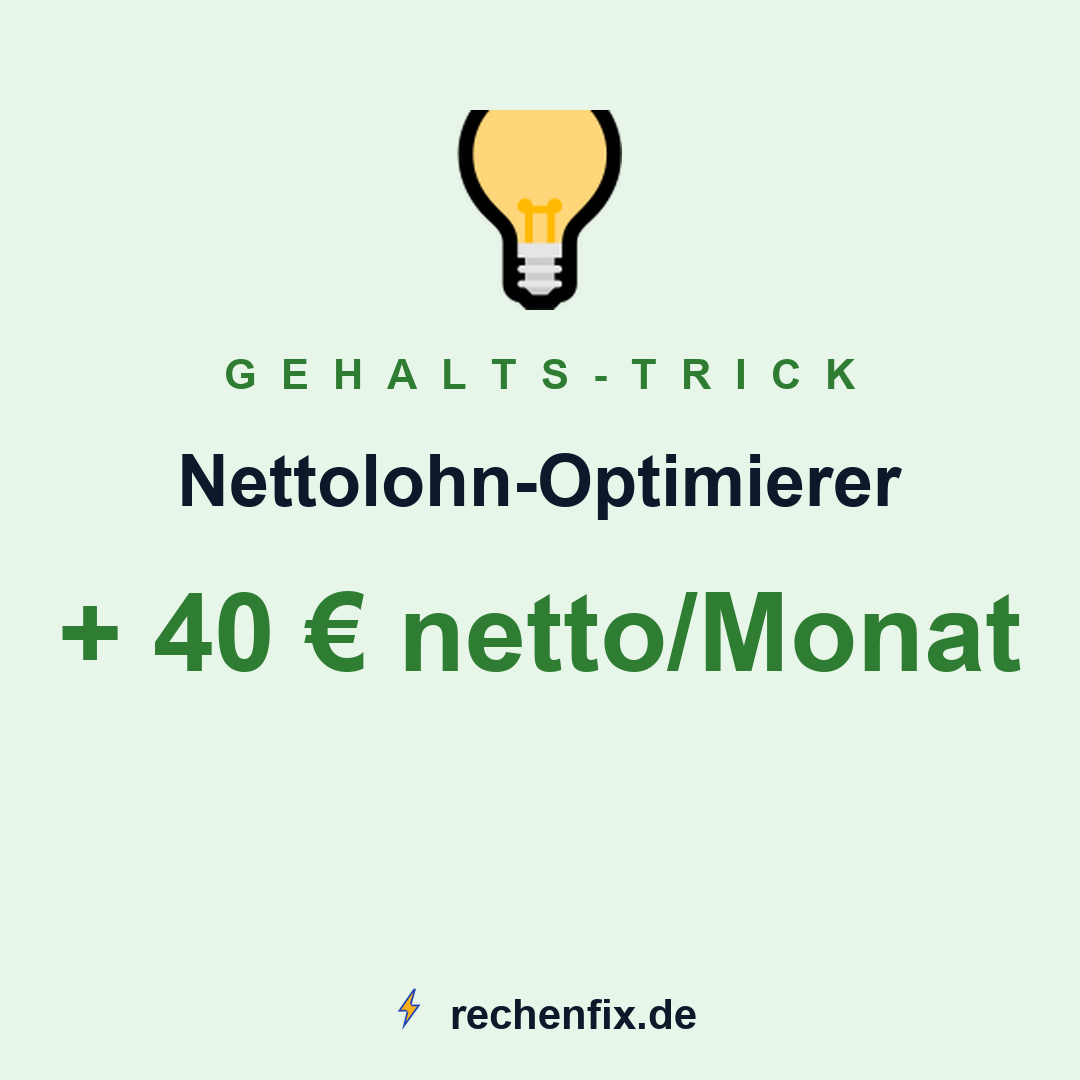
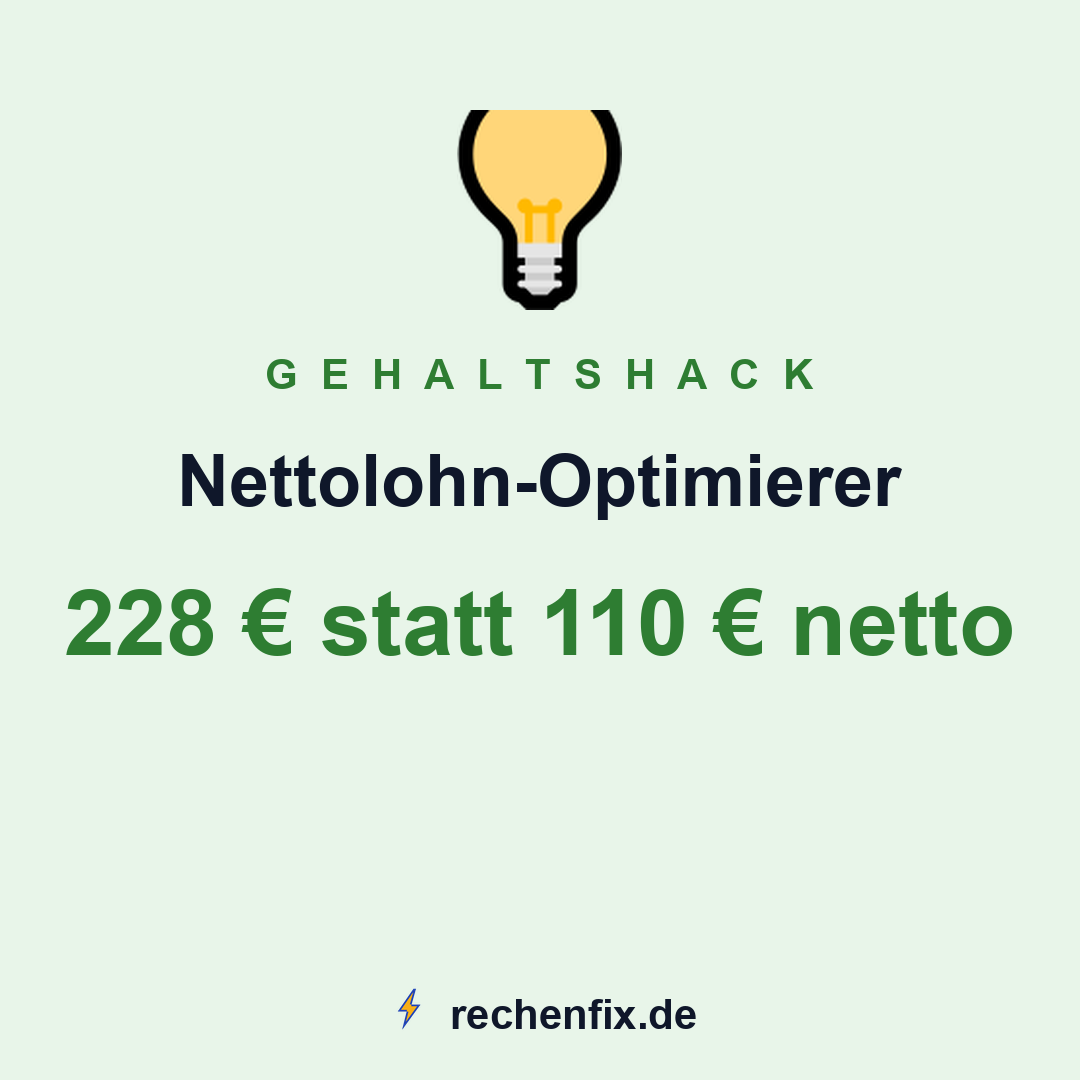
Welle 170: Nettolohn-Optimierer — Pauschalsteuer bei Essensmarken und Internet, bAV-Grenzen 2026, Social-Kachel

Changed region(s): [[0.0611, 0.5194, 0.9472, 0.6417], [0.2139, 0.3056, 0.7944, 0.3667], [0.4583, 0.9167, 0.5806, 0.9472]]

diff --git a/lib/rechner-config/finanzen.ts b/lib/rechner-config/finanzen.ts
@@ -3857,7 +3857,7 @@ export const finanzenRechner: RechnerConfig[] = [
   },
   {
     slug: 'gehaltserhoehung-rechner',
-    letzteAktualisierung: '2026-06-20',
+    letzteAktualisierung: '2026-10-19',
     titel: 'Gehaltserhöhung-Rechner',
     beschreibung: 'Gehaltserhöhung berechnen: Wie viel Netto bleibt von Ihrer Brutto-Erhöhung — mit Steuer- und Abgabeneffekt.',
     kategorie: 'Finanzen',
@@ -3886,7 +3886,7 @@ export const finanzenRechner: RechnerConfig[] = [
       },
       {
         frage: 'Welche steuerfreien Alternativen gibt es zur Gehaltserhöhung?',
-        antwort: 'Viele. Die wichtigsten steuerfreien Benefits: Jobticket/Deutschlandticket (63 €/Monat seit 2026), Essenszuschuss (bis 7,67 €/Arbeitstag), Kindergarten-Zuschuss (unbegrenzt für nicht-schulpflichtige Kinder), betriebliche Altersvorsorge (bis 302 €/Monat), Gesundheitsförderung (600 €/Jahr), Handy-/Laptop-Zuschuss, Sachbezüge bis 50 €/Monat. Weil keine Abgaben anfallen, entspricht z.B. ein Jobticket von 63 € einer Brutto-Erhöhung von rund 100–120 €.',
+        antwort: 'Viele. Die wichtigsten steuerfreien oder vom Arbeitgeber pauschal versteuerten Benefits: Jobticket/Deutschlandticket (63 €/Monat seit 2026), Essensmarken (bis 7,67 €/Arbeitstag, der Sachbezugswert von 4,57 € wird pauschal versteuert), Kindergarten-Zuschuss (unbegrenzt für nicht-schulpflichtige Kinder), betriebliche Altersvorsorge (2026 steuerfrei bis 676 €/Monat, sozialabgabenfrei bis 338 €), Gesundheitsförderung (600 €/Jahr), Handy-/Laptop-Zuschuss, Sachbezüge bis 50 €/Monat. Weil keine Abgaben anfallen, entspricht z.B. ein Jobticket von 63 € einer Brutto-Erhöhung von rund 100–120 €.',
       },
       {
         frage: 'Was ist die kalte Progression?',
@@ -5220,7 +5220,7 @@ export const finanzenRechner: RechnerConfig[] = [
     metaDescription: 'Nettolohn optimieren: Gehaltserhöhung vs. Sachbezüge wie Jobticket, Essenszuschuss oder BAV kostenlos vergleichen — mit KI-Erklärung.',
     keywords: ['nettolohn optimieren', 'sachbezüge', 'steuerfreie gehaltsextras', 'gehaltserhöhung vs sachbezug', 'jobticket steuerfrei', 'essenszuschuss', 'betriebliche altersvorsorge', '50 euro sachbezug', 'nettolohn maximieren'],
     icon: '💡',
-    beispiel: 'Beispiel: 200 € AG-Budget → Brutto-Erhöhung ≈ 109 € netto (StKl I). Als Essenszuschuss (115,05 € steuerfrei) ≈ 115,05 € netto — rund 6 € mehr pro Monat.',
+    beispiel: 'Beispiel: 200 € Budget, 3.500 € brutto, StKl I → Brutto-Erhöhung 109,75 € netto bei 242,30 € Arbeitgeberkosten. Essensmarken (15 × 7,67 €, vom Arbeitgeber pauschal versteuert) bringen 115,05 € netto bei 133,13 € Kosten.',
     // W19-Goldstandard: nettolohn-optimierer auf volle Tiefe (~1.560 W, 15 Bausteine).
     // Leitformat „Benefit-Optionsmatrix" — 3 tabelle dominant (Bausteine-Übersicht ·
     // 200-€-Budget-Vergleich AN-Netto/AG-Kosten · Brutto→Netto-Quote), grenzt sich von
@@ -5228,14 +5228,15 @@ export const finanzenRechner: RechnerConfig[] = [
     // Werte aus berechneBruttoNetto reproduziert (Resolver-Check 25.06.2026, nach W147 neu gemessen, 3.500 €, StKl I):
     // +200 € brutto → +109,75 € netto (Quote ~55 %); AG-Kosten 200 € + 21,15 % AG-SV = 242,30 € (W166, berechneArbeitgeberSvMonat).
     // Bausteine 2026: Sachbezug 50 € (§ 8 Abs. 2 EStG, FREIGRENZE), Jobticket 63 € (§ 3 Nr. 15),
-    // Essenszuschuss 115,05 € (7,67 €/Tag × 15, 16. SvEV — GEFIXT f013478), Internet 50 €
-    // (§ 40 Abs. 2, 25 % pauschal AG), BAV 302 € (§ 3 Nr. 63, mindert spätere Rente).
+    // Essensmarken 115,05 € (7,67 €/Tag × 15, SvEV 2026; 4,57 €/Tag pauschal 25 % durch AG → AG-Kosten
+    // 133,13 €), Internet 50 € (§ 40 Abs. 2, 25 % pauschal AG → 63,18 €), BAV steuerfrei 676 € /
+    // SV-frei 338 € (§ 3 Nr. 63 EStG, § 1 Abs. 1 Nr. 9 SvEV; W170, vorher 302 € = Wert 2024).
     // erklaerung bleibt Fallback.
     contentBloecke: [
       {
         typ: 'text',
         titel: 'Warum steuerfreie Bausteine die Gehaltserhöhung schlagen',
-        html: `<p>Eine Brutto-Gehaltserhöhung fühlt sich gut an — bis die Abrechnung kommt. Wer in Steuerklasse I rund 3.500 € verdient, hat eine <strong>Grenzbelastung von etwa 45 %</strong> aus Lohnsteuer, Soli und Sozialabgaben. Von 200 € Brutto-Erhöhung bleiben so nur rund <strong>109 € netto</strong> übrig; der Rest geht an Finanzamt und Sozialkassen. Zusätzlich zahlt der Arbeitgeber gut 21 % Arbeitgeber-Sozialabgaben obendrauf — das Budget wird doppelt belastet.</p><p>Genau hier setzen <strong>steuerfreie Sachbezüge</strong> an. Zahlt der Arbeitgeber statt Brutto einen steuerfreien Baustein, kommt der Betrag fast ungeschmälert bei Ihnen an — und der Arbeitgeber spart die Sozialabgaben gleich mit. Ein Deutschlandticket-Zuschuss von 63 € bringt also 63 € netto, nicht etwa die Hälfte.</p><p>Dieser Rechner vergleicht sechs gängige Bausteine parallel und zeigt für Ihr Budget, welcher netto am meisten bringt. Die exakte Abgabenlast Ihres Gehalts liefert der <a href="/finanzen/brutto-netto-rechner">Brutto-Netto-Rechner</a>.</p>`,
+        html: `<p>Eine Brutto-Gehaltserhöhung fühlt sich gut an — bis die Abrechnung kommt. Wer in Steuerklasse I rund 3.500 € verdient, hat eine <strong>Grenzbelastung von etwa 45 %</strong> aus Lohnsteuer, Soli und Sozialabgaben. Von 200 € Brutto-Erhöhung bleiben so nur rund <strong>109 € netto</strong> übrig; der Rest geht an Finanzamt und Sozialkassen. Zusätzlich zahlt der Arbeitgeber gut 21 % Arbeitgeber-Sozialabgaben obendrauf — das Budget wird doppelt belastet.</p><p>Genau hier setzen <strong>steuerfreie Sachbezüge</strong> an. Zahlt der Arbeitgeber statt Brutto einen steuerfreien oder von ihm pauschal versteuerten Baustein, kommt der Betrag ungeschmälert bei Ihnen an — und der Arbeitgeber spart die Sozialabgaben gleich mit. Ein Deutschlandticket-Zuschuss von 63 € bringt also 63 € netto, nicht etwa die Hälfte.</p><p>Dieser Rechner vergleicht sechs gängige Bausteine parallel und zeigt für Ihr Budget, welcher netto am meisten bringt. Die exakte Abgabenlast Ihres Gehalts liefert der <a href="/finanzen/brutto-netto-rechner">Brutto-Netto-Rechner</a>.</p>`,
       },
       {
         typ: 'tabelle',
@@ -5243,12 +5244,12 @@ export const finanzenRechner: RechnerConfig[] = [
         kopf: ['Baustein', 'max. pro Monat', 'Rechtsgrundlage', 'Besonderheit'],
         zeilen: [
           ['Sachbezug (Gutschein/Karte)', '50 €', '§ 8 Abs. 2 EStG', 'Freigrenze — bei 50,01 € voll steuerpflichtig'],
-          ['Jobticket / Deutschlandticket', '63 €', '§ 3 Nr. 15 EStG', 'voller Ticketpreis steuerfrei (Stand 2026)'],
-          ['Essenszuschuss', '115,05 €', '16. SvEV / R 8.1 LStR', '7,67 €/Tag × 15 Tage (4,57 € + 3,10 €)'],
+          ['Jobticket / Deutschlandticket', '63 €', '§ 3 Nr. 15 EStG', 'voller Ticketpreis steuerfrei (Stand 2026); mindert die Entfernungspauschale'],
+          ['Essensmarken', '115,05 €', 'SvEV / R 8.1 LStR / § 40 Abs. 2 EStG', '7,67 €/Tag × 15 Tage (4,57 € + 3,10 €); 4,57 € je Tag pauschal 25 % durch den Arbeitgeber'],
           ['Internet-Pauschale', '50 €', '§ 40 Abs. 2 EStG', 'pauschal 25 % durch den Arbeitgeber'],
-          ['BAV-Entgeltumwandlung', '302 €', '§ 3 Nr. 63 EStG', 'fließt in die Rente, heute 0 € netto'],
+          ['BAV-Entgeltumwandlung', '676 € (SV-frei 338 €)', '§ 3 Nr. 63 EStG, § 1 SvEV', 'fließt in die Rente, heute 0 € netto'],
         ],
-        fussnote: 'Werte 2026. Alle Bausteine müssen grundsätzlich zusätzlich zum ohnehin geschuldeten Arbeitslohn gewährt werden (§ 8 Abs. 4 EStG). Die BAV-Grenze entspricht 4 % der Beitragsbemessungsgrenze der Rentenversicherung.',
+        fussnote: 'Werte 2026. Alle Bausteine außer der BAV müssen grundsätzlich zusätzlich zum ohnehin geschuldeten Arbeitslohn gewährt werden (§ 8 Abs. 4 EStG). Bei der BAV sind 8 % der Beitragsbemessungsgrenze der Rentenversicherung (101.400 €) steuerfrei, 4 % auch sozialversicherungsfrei. Die 15 Tage bei den Essensmarken sind die Vereinfachungsregel der Lohnsteuer-Richtlinien.',
       },
       {
         typ: 'text',
@@ -5267,30 +5268,30 @@ export const finanzenRechner: RechnerConfig[] = [
         schritte: [
           { label: 'AG-Budget', formel: 'Arbeitgeber stellt bereit', ergebnis: '200 €/Monat' },
           { label: 'Variante A: Brutto-Erhöhung', formel: 'Netto(3.700 €) − Netto(3.500 €), StKl I', ergebnis: '+109,75 € netto' },
-          { label: 'Variante B: Essenszuschuss', formel: '7,67 € × 15 Tage, steuerfrei', ergebnis: '+115,05 € netto' },
+          { label: 'Variante B: Essensmarken', formel: '7,67 € × 15 Tage, für Sie abgabenfrei', ergebnis: '+115,05 € netto' },
           { label: 'AG-Kosten Variante A', formel: '200 € + 21,15 % AG-SV-Anteil', ergebnis: '242,30 €' },
-          { label: 'AG-Kosten Variante B', formel: 'kein AG-SV-Anteil', ergebnis: '115,05 €' },
+          { label: 'AG-Kosten Variante B', formel: '115,05 € + 25 % Pauschalsteuer auf 68,55 € (15 × 4,57 €) + Soli', ergebnis: '133,13 €' },
         ],
-        fazit: 'Bei 200 € Budget bringt der Essenszuschuss 115,05 € netto — rund 5 € mehr als die Brutto-Erhöhung (109,75 €) — und kostet den Arbeitgeber mit 115,05 € weniger als die Hälfte. Steuerfreie Bausteine gewinnen also auf beiden Seiten: mehr Netto für Sie, weniger Kosten für den Arbeitgeber.',
+        fazit: 'Bei 200 € Budget bringen die Essensmarken 115,05 € netto — rund 5 € mehr als die Brutto-Erhöhung (109,75 €) — und kosten den Arbeitgeber mit 133,13 € gut die Hälfte. Solche Bausteine gewinnen also auf beiden Seiten: mehr Netto für Sie, weniger Kosten für den Arbeitgeber.',
       },
       {
         typ: 'tabelle',
         titel: '200-€-Budget: was kommt netto an?',
         kopf: ['Option', 'kommt netto an', 'kostet den AG', 'Rang'],
         zeilen: [
-          ['Essenszuschuss', '115,05 €', '115,05 €', '1'],
+          ['Essensmarken', '115,05 €', '133,13 €', '1'],
           ['Brutto-Gehaltserhöhung', '109,75 €', '242,30 €', '2'],
           ['Jobticket 63 €', '63,00 €', '63,00 €', '3'],
           ['Sachbezug 50 €', '50,00 €', '50,00 €', '4'],
-          ['Internet-Pauschale 50 €', '50,00 €', '50,00 €', '4'],
+          ['Internet-Pauschale 50 €', '50,00 €', '63,18 €', '4'],
           ['BAV (bis 200 €)', '0 € heute', '200,00 €', '–'],
         ],
-        fussnote: 'Basis: 3.500 € Monatsbrutto, Steuerklasse I, AG-Budget 200 €. „Kommt netto an" = monatlicher Netto-Zugewinn beim Arbeitnehmer. Die Brutto-Erhöhung bringt weniger Netto als der Essenszuschuss und kostet den Arbeitgeber mehr als das Doppelte. BAV fließt in die Altersvorsorge (heute 0 € netto).',
+        fussnote: 'Basis: 3.500 € Monatsbrutto, Steuerklasse I, AG-Budget 200 €. „Kommt netto an" = monatlicher Netto-Zugewinn beim Arbeitnehmer. Bei Essensmarken und Internet-Pauschale trägt der Arbeitgeber 25 % Pauschalsteuer und Soli, ohne Kirchensteuer gerechnet. Die Brutto-Erhöhung bringt weniger Netto als die Essensmarken und kostet den Arbeitgeber fast das Doppelte. BAV fließt in die Altersvorsorge (heute 0 € netto).',
       },
       {
         typ: 'text',
         titel: 'Warum die Brutto-Erhöhung den Arbeitgeber doppelt kostet',
-        html: `<p>Der Kostenvorteil steuerfreier Bausteine zeigt sich besonders aus Arbeitgebersicht. Eine <strong>Brutto-Gehaltserhöhung</strong> belastet den Arbeitgeber doppelt: Er zahlt nicht nur die Erhöhung selbst, sondern zusätzlich gut 21 % Arbeitgeber-Sozialabgaben. Aus 200 € Brutto-Erhöhung werden so <strong>242,30 €</strong> echte Kosten — bei denen beim Arbeitnehmer aber nur rund 110 € netto ankommen.</p><p>Ein steuerfreier Baustein kennt diesen Aufschlag nicht: 115 € Essenszuschuss kosten den Arbeitgeber genau 115 € — und kommen voll beim Arbeitnehmer an. Für dieselbe Netto-Wirkung zahlt der Arbeitgeber also deutlich weniger.</p><p>Das macht steuerfreie Extras zu einem starken Argument in der Gehaltsverhandlung: Sie sind für beide Seiten günstiger. Viele Arbeitgeber sind hier flexibler als bei der Bruttoerhöhung, gerade weil sie selbst Sozialabgaben sparen.</p>`,
+        html: `<p>Der Kostenvorteil steuerfreier Bausteine zeigt sich besonders aus Arbeitgebersicht. Eine <strong>Brutto-Gehaltserhöhung</strong> belastet den Arbeitgeber doppelt: Er zahlt nicht nur die Erhöhung selbst, sondern zusätzlich gut 21 % Arbeitgeber-Sozialabgaben. Aus 200 € Brutto-Erhöhung werden so <strong>242,30 €</strong> echte Kosten — bei denen beim Arbeitnehmer aber nur rund 110 € netto ankommen.</p><p>Ein Baustein ohne Sozialabgaben kennt diesen Aufschlag nicht: 115,05 € Essensmarken kosten den Arbeitgeber mit der Pauschalsteuer 133,13 € — und kommen voll beim Arbeitnehmer an. Für mehr Netto-Wirkung zahlt der Arbeitgeber also deutlich weniger.</p><p>Das macht steuerfreie Extras zu einem starken Argument in der Gehaltsverhandlung: Sie sind für beide Seiten günstiger. Viele Arbeitgeber sind hier flexibler als bei der Bruttoerhöhung, gerade weil sie selbst Sozialabgaben sparen.</p>`,
       },
       {
         typ: 'tabelle',
@@ -5313,7 +5314,7 @@ export const finanzenRechner: RechnerConfig[] = [
       {
         typ: 'text',
         titel: 'Jobticket, Essenszuschuss und Internet im Detail',
-        html: `<p>Jeder Baustein hat eigene Regeln. Das <strong>Deutschlandticket</strong> (§ 3 Nr. 15 EStG) ist seit 2026 mit 63 €/Monat voll steuerfrei übernehmbar — der Netto-Zugewinn entspricht exakt dem Ticketpreis. Der <strong>Essenszuschuss</strong> deckt das Mittagessen an Arbeitstagen: 7,67 € pro Tag (Sachbezugswert 4,57 € plus 3,10 € Zuschuss), bei 15 Tagen 115,05 € im Monat, meist über digitale Meal-Voucher.</p><p>Die <strong>Internet-Pauschale</strong> (§ 40 Abs. 2 EStG) erlaubt bis zu 50 €/Monat für die berufliche Nutzung des privaten Anschlusses — pauschal mit 25 % durch den Arbeitgeber versteuert, für den Arbeitnehmer ohne Abzug. Sie passt besonders ins Homeoffice.</p><p>Alle drei Bausteine lassen sich <strong>kombinieren</strong>, weil jede Grenze für sich gilt. Deutschlandticket, 50-€-Sachbezug und Essenszuschuss zusammen ergeben rund 228 € netto im Monat — dafür bräuchte es über 400 € Brutto-Erhöhung.</p>`,
+        html: `<p>Jeder Baustein hat eigene Regeln. Das <strong>Deutschlandticket</strong> (§ 3 Nr. 15 EStG) ist seit 2026 mit 63 €/Monat voll steuerfrei übernehmbar — der Netto-Zugewinn entspricht exakt dem Ticketpreis; in der Steuererklärung mindert der Zuschuss allerdings die Entfernungspauschale. Der <strong>Essenszuschuss</strong> deckt das Mittagessen an Arbeitstagen: Essensmarken bis 7,67 € pro Tag (Sachbezugswert 4,57 € plus 3,10 €), bei 15 Tagen 115,05 € im Monat, meist über digitale Meal-Voucher. Der Sachbezugswert von 4,57 € je Tag ist steuerpflichtig; der Arbeitgeber versteuert ihn in der Regel pauschal mit 25 %, dann bleibt die Marke für Sie abgabenfrei.</p><p>Die <strong>Internet-Pauschale</strong> (§ 40 Abs. 2 EStG) erlaubt bis zu 50 €/Monat für die berufliche Nutzung des privaten Anschlusses — pauschal mit 25 % durch den Arbeitgeber versteuert, für den Arbeitnehmer ohne Abzug. Sie passt besonders ins Homeoffice.</p><p>Alle drei Bausteine lassen sich <strong>kombinieren</strong>, weil jede Grenze für sich gilt. Deutschlandticket, 50-€-Sachbezug und Essensmarken zusammen ergeben rund 228 € netto im Monat und kosten den Arbeitgeber 246,13 € — kaum mehr als eine Brutto-Erhöhung um 200 € (242,30 €), die nur 109,75 € netto bringt. Für 228 € netto bräuchte es über 400 € Brutto-Erhöhung.</p>`,
       },
       {
         typ: 'text',
@@ -5323,7 +5324,7 @@ export const finanzenRechner: RechnerConfig[] = [
       {
         typ: 'text',
         titel: 'BAV: Vorsorge statt Sofort-Netto',
-        html: `<p>Die <strong>betriebliche Altersvorsorge</strong> (BAV) per Entgeltumwandlung ist der Sonderfall unter den Bausteinen. Beiträge sind bis 4 % der Renten-Beitragsbemessungsgrenze steuerfrei — 2026 rund <strong>302 €/Monat</strong> — und teils auch sozialabgabenfrei.</p><p>Der entscheidende Unterschied: Heute landet <strong>nichts</strong> zusätzlich in Ihrem Geldbeutel. Das Geld fließt in einen Vorsorgevertrag und wird erst in der Rentenphase ausgezahlt — und dann besteuert. Außerdem mindert die Entgeltumwandlung das sozialversicherungspflichtige Brutto und damit geringfügig die <strong>spätere gesetzliche Rente</strong>.</p><p>Trotzdem ist die BAV oft attraktiv, weil der Arbeitgeber bei Entgeltumwandlung gesetzlich 15 % Zuschuss dazulegen muss (§ 1a Abs. 1a BetrAVG). Sie ist damit kein Werkzeug für mehr Sofort-Netto, sondern für den langfristigen Vermögensaufbau — wer heute jeden Euro braucht, greift eher zu Ticket oder Sachbezug.</p>`,
+        html: `<p>Die <strong>betriebliche Altersvorsorge</strong> (BAV) per Entgeltumwandlung ist der Sonderfall unter den Bausteinen. Beiträge sind bis 8 % der Renten-Beitragsbemessungsgrenze steuerfrei — 2026 <strong>676 €/Monat</strong> — und bis 4 % (338 €/Monat) auch sozialabgabenfrei.</p><p>Der entscheidende Unterschied: Heute landet <strong>nichts</strong> zusätzlich in Ihrem Geldbeutel. Das Geld fließt in einen Vorsorgevertrag und wird erst in der Rentenphase ausgezahlt — und dann besteuert. Außerdem mindert die Entgeltumwandlung das sozialversicherungspflichtige Brutto und damit geringfügig die <strong>spätere gesetzliche Rente</strong>.</p><p>Trotzdem ist die BAV oft attraktiv, weil der Arbeitgeber bei Entgeltumwandlung gesetzlich 15 % Zuschuss dazulegen muss (§ 1a Abs. 1a BetrAVG). Sie ist damit kein Werkzeug für mehr Sofort-Netto, sondern für den langfristigen Vermögensaufbau — wer heute jeden Euro braucht, greift eher zu Ticket oder Sachbezug.</p>`,
       },
       {
         typ: 'text',
@@ -5336,8 +5337,8 @@ export const finanzenRechner: RechnerConfig[] = [
         werte: [
           { label: 'Sachbezug-Freigrenze', wert: '50 €', hinweis: 'pro Monat, § 8 Abs. 2 EStG (Freigrenze!)' },
           { label: 'Deutschlandticket', wert: '63 €', hinweis: 'voll steuerfrei, § 3 Nr. 15 EStG (Stand 2026)' },
-          { label: 'Essenszuschuss', wert: '115,05 €', hinweis: '7,67 €/Tag × 15 Tage (16. SvEV 2026)' },
-          { label: 'BAV steuerfrei', wert: '302 €', hinweis: '4 % der RV-BBG, § 3 Nr. 63 EStG' },
+          { label: 'Essensmarken', wert: '115,05 €', hinweis: '7,67 €/Tag × 15 Tage; 4,57 €/Tag pauschal versteuert' },
+          { label: 'BAV steuerfrei', wert: '676 €', hinweis: '8 % der RV-BBG, § 3 Nr. 63 EStG; SV-frei bis 338 €' },
           { label: 'Netto-Quote Brutto-Erhöhung', wert: '~55 %', hinweis: '3.500 € Basis, StKl I — Rest: Steuern/SV' },
         ],
       },
@@ -5361,7 +5362,7 @@ export const finanzenRechner: RechnerConfig[] = [
         spalteB: 'BAV-Entgeltumwandlung',
         zeilen: [
           { kriterium: 'Heute im Geldbeutel', a: 'voller Betrag netto, sofort', b: '0 € — fließt in die Rente' },
-          { kriterium: 'Steuer', a: 'steuerfrei, endgültig', b: 'erst in der Rentenphase fällig (gestundet)' },
+          { kriterium: 'Steuer', a: 'für Sie abgabenfrei, endgültig', b: 'erst in der Rentenphase fällig (gestundet)' },
           { kriterium: 'Rentenwirkung', a: 'keine — zählt nicht für die Rente', b: 'baut zusätzliche Altersvorsorge auf' },
           { kriterium: 'Arbeitgeber', a: 'spart Sozialabgaben', b: 'gesetzlich 15 % Pflichtzuschuss' },
           { kriterium: 'Passt für', a: 'wer heute mehr Netto braucht', b: 'wer langfristig vorsorgen will' },
@@ -5377,19 +5378,19 @@ export const finanzenRechner: RechnerConfig[] = [
     faq: [
       {
         frage: 'Lohnt sich eine Gehaltserhöhung oder Sachbezüge mehr?',
-        antwort: 'In den meisten Fällen sind steuerfreie Sachbezüge attraktiver, weil weder Lohnsteuer noch Sozialabgaben anfallen. Von 200 € Brutto-Erhöhung bleiben in Steuerklasse I nur rund 105 bis 120 € netto — ein 63-€-Deutschlandticket (Stand 2026) bringt dagegen 63 € netto ohne Abzug. Der Rechner zeigt für Ihre Situation die optimale Lösung.',
+        antwort: 'In den meisten Fällen sind steuerfreie Sachbezüge attraktiver, weil weder Lohnsteuer noch Sozialabgaben anfallen. Von 200 € Brutto-Erhöhung bleiben bei 3.500 € brutto in Steuerklasse I nur rund 110 € netto — ein 63-€-Deutschlandticket (Stand 2026) bringt dagegen 63 € netto ohne Abzug. Der Rechner zeigt für Ihre Situation die optimale Lösung.',
       },
       {
         frage: 'Wie hoch ist die Sachbezugsfreigrenze 2026?',
         antwort: 'Die Freigrenze nach § 8 Abs. 2 EStG liegt bei 50 € pro Monat. Wichtig: Es ist eine Freigrenze, kein Freibetrag — schon ein Cent darüber macht den gesamten Betrag steuer- und sozialabgabenpflichtig. Der Sachbezug darf zudem keine reine Geldleistung sein, sondern muss echte Sachleistung (z. B. Gutschein, Tankkarte, Warenkarte) sein.',
       },
       {
-        frage: 'Was ist der maximale steuerfreie Essenszuschuss?',
-        antwort: 'Der Arbeitgeber kann 2026 einen Essenszuschuss bis 7,67 € pro Arbeitstag steuerfrei gewähren (amtlicher Sachbezugswert 4,57 € plus 3,10 € Zuschuss). Bei 15 Arbeitstagen pro Monat sind das 115,05 €. Abgewickelt wird das meist über digitale Meal-Voucher-Anbieter — eingelöst werden können die Gutscheine in Restaurants, Supermärkten oder Bäckereien.',
+        frage: 'Wie hoch dürfen Essensmarken 2026 sein?',
+        antwort: 'Eine Essensmarke darf 2026 bis 7,67 € je Arbeitstag wert sein (amtlicher Sachbezugswert 4,57 € plus 3,10 €). Die 3,10 € sind steuerfrei, die 4,57 € sind geldwerter Vorteil: Der Arbeitgeber versteuert sie meist pauschal mit 25 %, dann bleibt die Marke für Sie abgabenfrei. Bei 15 Arbeitstagen pro Monat sind das 115,05 €; die 15 Tage sind eine Vereinfachungsregel der Lohnsteuer-Richtlinien. Abgewickelt wird das meist über digitale Meal-Voucher-Anbieter — eingelöst werden können die Gutscheine in Restaurants, Supermärkten oder Bäckereien.',
       },
       {
         frage: 'Ist das Deutschlandticket vom Arbeitgeber steuerfrei?',
-        antwort: 'Ja. Zuschüsse des Arbeitgebers zum Deutschlandticket (63 €/Monat seit 01.01.2026) sind in voller Höhe steuer- und sozialabgabenfrei — vorausgesetzt, der Zuschuss wird zusätzlich zum ohnehin geschuldeten Arbeitslohn gewährt. Auch die Monatskarte des ÖPNV in Ihrer Stadt fällt unter die Jobticket-Regelung.',
+        antwort: 'Ja. Zuschüsse des Arbeitgebers zum Deutschlandticket (63 €/Monat seit 01.01.2026) sind in voller Höhe steuer- und sozialabgabenfrei — vorausgesetzt, der Zuschuss wird zusätzlich zum ohnehin geschuldeten Arbeitslohn gewährt. In der Steuererklärung mindert er die Entfernungspauschale (§ 3 Nr. 15 Satz 3 EStG). Auch die Monatskarte des ÖPNV in Ihrer Stadt fällt unter die Jobticket-Regelung.',
       },
       {
         frage: 'Lohnt sich BAV als Alternative zur Gehaltserhöhung?',
@@ -5403,7 +5404,8 @@ export const finanzenRechner: RechnerConfig[] = [
     quellen: [
       { titel: '§ 8 EStG: Sachbezüge & 50-€-Freigrenze (Abs. 2)', url: 'https://www.gesetze-im-internet.de/estg/__8.html' },
       { titel: '§ 3 EStG: Steuerfreie Einnahmen (Nr. 15 Jobticket, Nr. 63 BAV)', url: 'https://www.gesetze-im-internet.de/estg/__3.html' },
-      { titel: 'SvEV: Sachbezugswerte 2026 (16. Änderungsverordnung)', url: 'https://www.gesetze-im-internet.de/svev/', hinweis: 'Sachbezugswert Mittagessen 4,57 € + steuerfreier AG-Zuschuss 3,10 € = 7,67 €/Arbeitstag (BGBl. 29.12.2025).' },
+      { titel: 'SvEV: Sachbezugswerte 2026 (16. Änderungsverordnung)', url: 'https://www.gesetze-im-internet.de/svev/', hinweis: 'Sachbezugswert Mittagessen 4,57 € (§ 2 Abs. 1 und 6 SvEV); Essensmarken bis 4,57 € + 3,10 € = 7,67 €/Arbeitstag (BMF-Schreiben vom 18.01.2019).' },
+      { titel: '§ 40 EStG: Pauschalierung (Abs. 2 Nr. 1 Mahlzeiten, Nr. 5 Internet)', url: 'https://www.gesetze-im-internet.de/estg/__40.html' },
     ],
   },
   {

diff --git a/components/rechner/NettolohnOptimiererRechner.tsx b/components/rechner/NettolohnOptimiererRechner.tsx
@@ -64,6 +64,13 @@ export default function NettolohnOptimiererRechner() {
 
   const optionen: Option[] = useMemo(() => {
     const cap = (grenze: number) => Math.min(betrag, grenze);
+    // W170: pauschale Lohnsteuer 25 % (§ 40 Abs. 2 EStG) trägt der Arbeitgeber, dazu 5,5 % Soli darauf
+    // (Cent-Bruchteile fallen weg, § 4 SolzG). Kirchensteuer auf die Pauschalsteuer ist nicht eingerechnet.
+    const mitPauschalsteuer = (zuschuss: number, steuerpflichtig: number) => {
+      const lst = Math.round(steuerpflichtig * 0.25 * 100) / 100;
+      return zuschuss + lst + Math.floor(lst * 5.5) / 100;
+    };
+    const essen = cap(115.05);
     return [
       {
         id: 'brutto',
@@ -82,30 +89,30 @@ export default function NettolohnOptimiererRechner() {
       {
         id: 'jobticket',
         label: 'Jobticket / Deutschlandticket',
-        beschreibung: 'Deutschlandticket steuerfrei bis 63 €/Monat (Stand 2026, ÖPNV-Zuschuss).',
+        beschreibung: 'Zuschuss bis zum Ticketpreis steuer- und SV-frei (§ 3 Nr. 15 EStG), Deutschlandticket 2026: 63 €/Monat. Mindert die Entfernungspauschale in Ihrer Steuererklärung.',
         nettoZugewinn: cap(63),
         agKosten: cap(63),
       },
       {
         id: 'essen',
-        label: 'Essenszuschuss (Restaurantschecks)',
-        beschreibung: 'Bis 7,67 €/Arbeitstag steuerfrei (Sachbezugswert 4,57 € + AG-Zuschuss 3,10 €) — bei 15 Tagen = 115,05 €/Monat.',
-        nettoZugewinn: cap(115.05),
-        agKosten: cap(115.05),
+        label: 'Essensmarken (Restaurantschecks)',
+        beschreibung: 'Bis 7,67 € je Arbeitstag (Sachbezugswert 4,57 € + 3,10 €), bei 15 Tagen 115,05 €/Monat. Die 4,57 € je Tag versteuert der Arbeitgeber pauschal mit 25 % — für Sie abgabenfrei.',
+        nettoZugewinn: essen,
+        agKosten: mitPauschalsteuer(essen, Math.round(essen * 4.57 / 7.67 * 100) / 100),
       },
       {
         id: 'internet',
         label: 'Internet-Pauschale',
-        beschreibung: 'Pauschal 50 €/Monat steuerfrei für berufliche Internetnutzung.',
+        beschreibung: 'Bis 50 €/Monat, vom Arbeitgeber pauschal mit 25 % versteuert (§ 40 Abs. 2 EStG) und SV-frei — für Sie abgabenfrei.',
         nettoZugewinn: cap(50),
-        agKosten: cap(50),
+        agKosten: mitPauschalsteuer(cap(50), cap(50)),
       },
       {
         id: 'bav',
         label: 'Betriebliche Altersvorsorge (BAV)',
-        beschreibung: 'Bis 302 €/Monat steuer- und SV-frei — fließt aber in die Rente, heute 0 € netto.',
+        beschreibung: '2026 steuerfrei bis 676 €/Monat, SV-frei bis 338 €/Monat (8 % bzw. 4 % der RV-Beitragsbemessungsgrenze) — fließt in die Rente, heute 0 € netto.',
         nettoZugewinn: 0,
-        agKosten: cap(302),
+        agKosten: cap(676),
         rente: true,
       },
     ];
